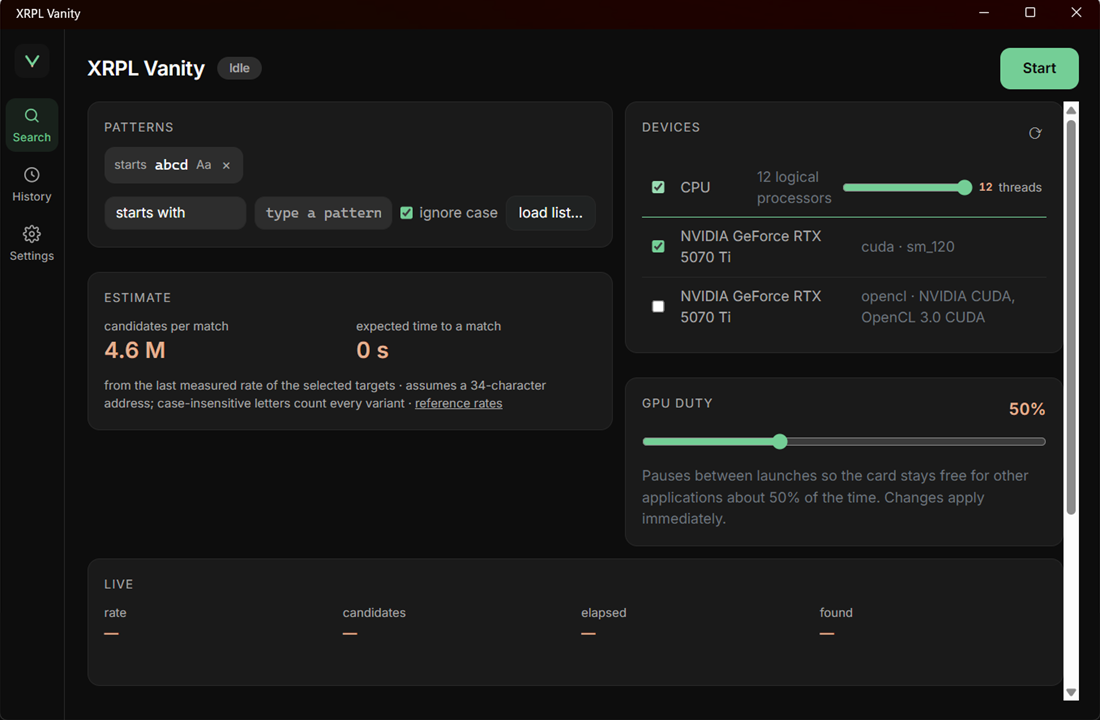
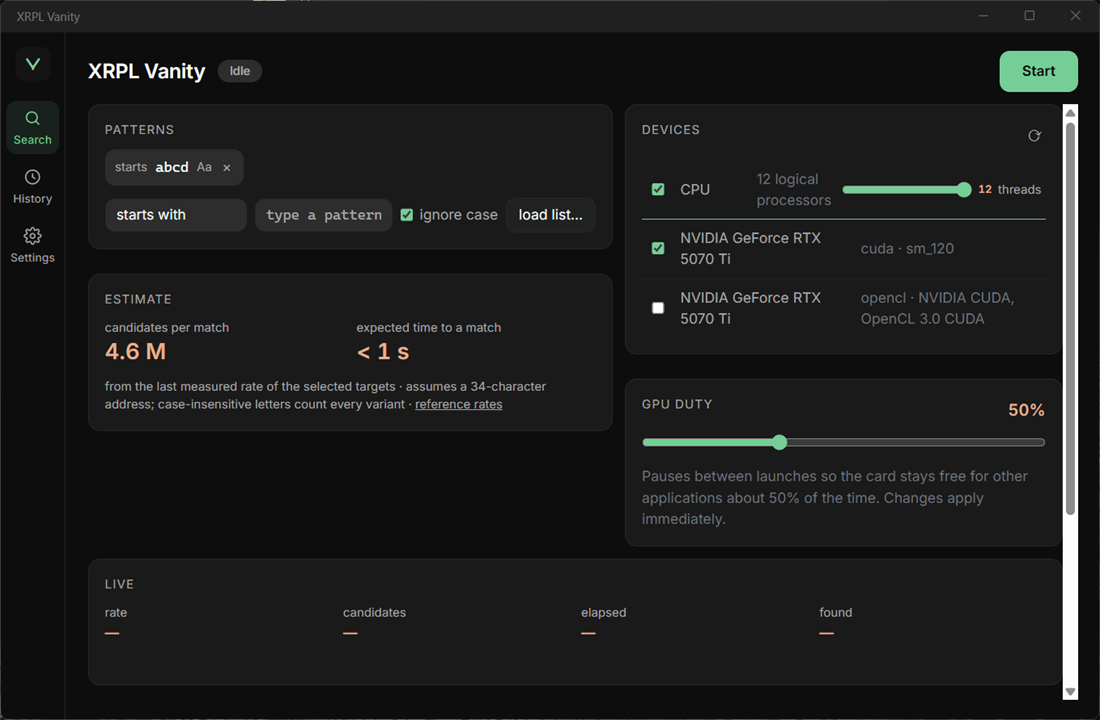
fix(app): the documented publish command matches the profile, and a sub-second estimate reads "< 1 s"
Task 8 fix round 1, addressing six review findings:

- MSIX-win-x64.pubxml no longer points PackageCertificateKeyFile at the dev .pfx
  (Windows App SDK 1.7 cannot import a password-protected key file); the profile
  now signs by thumbprint only, matching what docs/desktop-app.md already
  documented. Re-verified with a fresh publish producing a signed .msix.
- Package size in docs/desktop-app.md corrected to the measured 73.3 MB.
- Formatting.Duration returns "< 1 s" for a positive duration that rounds to
  zero seconds, keeping "0 s" only for TimeSpan.Zero; the desktop screenshot
  is retaken so the README no longer shows a nonsensical "0 s" ETA.
- WindowsTrayService's "Stop search" tray item gets a real ICommand.CanExecute
  tied to the current SearchRunning state, since H.NotifyIcon's native popup
  reflects CanExecute rather than MenuFlyoutItem.IsEnabled.
- DOTNET_ROLL_FORWARD is scoped to the Linux harness's build command instead of
  the whole container image, so a real runtime mismatch downstream still fails
  loudly.
- Desktop docs polish: settings.json's Count field is listed, and the Inter /
  Cascadia Code rows link to their exact release tags.

diff --git a/src/XrplVanity.App/Services/WindowsTrayService.cs b/src/XrplVanity.App/Services/WindowsTrayService.cs
@@ -17,6 +17,8 @@ public sealed class WindowsTrayService : ITrayService, IDisposable
     private TaskbarIcon? _icon;
     private Icon? _iconImage;
     private bool _disposed;
+    private bool _searchRunning;
+    private Command? _stopCommand;
 
     public event Action<TrayAction>? Activated;
 
@@ -80,6 +82,12 @@ public sealed class WindowsTrayService : ITrayService, IDisposable
 
     private void ApplyMenu(TrayMenu menu)
     {
+        if (_searchRunning != menu.SearchRunning)
+        {
+            _searchRunning = menu.SearchRunning;
+            _stopCommand?.ChangeCanExecute();
+        }
+
         MenuFlyout flyout = new();
 
         // Every item is wired through Command, not Clicked: H.NotifyIcon renders the flyout as a
@@ -95,8 +103,14 @@ public sealed class WindowsTrayService : ITrayService, IDisposable
 
         flyout.Add(duty);
 
-        MenuFlyoutItem stop = Item("Stop search", TrayAction.StopSearch);
-        stop.IsEnabled = menu.SearchRunning;
+        // The stop item's Command needs a real CanExecute, not just IsEnabled: H.NotifyIcon's
+        // native popup reflects the ICommand's CanExecute state, so a Command that always returns
+        // true (the Item() default) shows the item enabled even while idle, regardless of
+        // IsEnabled. _stopCommand is created once and reused so ChangeCanExecute above can
+        // notify a menu instance the popup already has open.
+        _stopCommand ??= new Command(() => Raise(TrayAction.StopSearch), () => _searchRunning);
+        MenuFlyoutItem stop = new() { Text = "Stop search", Command = _stopCommand };
+        stop.IsEnabled = _searchRunning;
         flyout.Add(stop);
 
         flyout.Add(new MenuFlyoutSeparator());

diff --git a/tests/XrplVanity.App.Tests/EstimateCardTests.cs b/tests/XrplVanity.App.Tests/EstimateCardTests.cs
@@ -64,6 +64,8 @@ public class EstimateCardTests : BunitContext
         Assert.Equal("3 h 20 min", Formatting.Duration(TimeSpan.FromMinutes(200)));
         Assert.Equal("2.5 days", Formatting.Duration(TimeSpan.FromHours(60)));
         Assert.Equal("> 1 year", Formatting.Duration(TimeSpan.FromDays(400)));
+        Assert.Equal("0 s", Formatting.Duration(TimeSpan.Zero));
+        Assert.Equal("< 1 s", Formatting.Duration(TimeSpan.FromMilliseconds(235)));
     }
 
     private static double ExpectedCandidatesFor(MatchPosition position, string pattern)

diff --git a/src/XrplVanity.App.Core/Components/Formatting.cs b/src/XrplVanity.App.Core/Components/Formatting.cs
@@ -20,6 +20,8 @@ public static class Formatting
         if (t.TotalDays >= 1) return t.TotalDays.ToString("0.#", CultureInfo.InvariantCulture) + " days";
         if (t.TotalHours >= 1) return $"{(int)t.TotalHours} h {t.Minutes} min";
         if (t.TotalMinutes >= 1) return $"{(int)Math.Round(t.TotalMinutes)} min";
-        return $"{(int)Math.Round(t.TotalSeconds)} s";
+        double seconds = Math.Round(t.TotalSeconds);
+        if (t > TimeSpan.Zero && seconds < 1) return "< 1 s";
+        return $"{(int)seconds} s";
     }
 }

diff --git a/docs/desktop-app.md b/docs/desktop-app.md
@@ -36,7 +36,7 @@ page prints the resolved path, and **Open folder** opens it):
 
 | File | Contents |
 | --- | --- |
-| `settings.json` | Pattern and target drafts, thread count, duty, window size, close behaviour, notification flag, clipboard and reveal timeouts, and the last measured rate per device. Plain JSON, no secrets. |
+| `settings.json` | Pattern and target drafts, thread count, duty, match count limit, window size, close behaviour, notification flag, clipboard and reveal timeouts, and the last measured rate per device. Plain JSON, no secrets. |
 | `results.dat` | The stored results, including seeds. Encrypted with DPAPI (`ProtectedData.Protect`, `DataProtectionScope.CurrentUser`), so only the Windows account that wrote the file can read it. |
 
 `results.dat` is the only file the application writes that contains a seed. Nothing else
@@ -111,14 +111,17 @@ dotnet publish src/XrplVanity.App/XrplVanity.App.csproj -c Release -f net10.0-wi
 ```
 
 The package lands in `src/XrplVanity.App/bin/msix/XrplVanity.App_1.0.0.0_x64_Test/` as
-`XrplVanity.App_1.0.0.0_x64.msix`, roughly 77 MB because the build is self-contained.
+`XrplVanity.App_1.0.0.0_x64.msix`, about 73.3 MB because the build is self-contained.
 
 The publish profile signs from the certificate store rather than from the `.pfx`. The
 Windows App SDK packaging targets cannot import a password-protected key file — they
 fail with `APPX0105: Cannot import the key file` and `APPX0107: The certificate specified
 is not valid for signing` even when `PackageCertificatePassword` is supplied — while the
-same certificate resolves cleanly by thumbprint. The `.pfx` is still exported so the
-certificate can be moved to another build machine.
+same certificate resolves cleanly by thumbprint. That is why
+`MSIX-win-x64.pubxml` carries an empty `PackageCertificateKeyFile`, a deliberate deviation
+from a straight `.pfx` reference: the `.pfx` still exists and is still exported by
+`make-cert.ps1`, but only so the certificate can be moved to another build machine — it is
+never read by the publish itself, which always signs by thumbprint from the local store.
 
 ### 3. Trust the certificate and install
 
@@ -163,8 +166,8 @@ registration first (`Remove-AppxPackage -Package io.staticbit.vanity_1.0.0.0_x64
 
 | Asset | Version | Licence |
 | --- | --- | --- |
-| [Inter](https://github.com/rsms/inter) (`Inter-Regular`, `Inter-Medium`, `Inter-SemiBold`) | v4.1 | SIL Open Font License 1.1 — `src/XrplVanity.App.Core/wwwroot/fonts/LICENSE-Inter.txt` |
-| [Cascadia Code](https://github.com/microsoft/cascadia-code) | v2407.24 | SIL Open Font License 1.1 — `src/XrplVanity.App.Core/wwwroot/fonts/LICENSE-CascadiaCode.txt` |
+| [Inter](https://github.com/rsms/inter/releases/tag/v4.1) (`Inter-Regular`, `Inter-Medium`, `Inter-SemiBold`) | v4.1 | SIL Open Font License 1.1 — `src/XrplVanity.App.Core/wwwroot/fonts/LICENSE-Inter.txt` |
+| [Cascadia Code](https://github.com/microsoft/cascadia-code/releases/tag/v2407.24) | v2407.24 | SIL Open Font License 1.1 — `src/XrplVanity.App.Core/wwwroot/fonts/LICENSE-CascadiaCode.txt` |
 | [Bootstrap](https://getbootstrap.com/) (`bootstrap.min.css` only) | 5.3.3 | MIT — `src/XrplVanity.App.Core/wwwroot/lib/bootstrap/LICENSE` |
 | [H.NotifyIcon.Maui](https://github.com/HavenDV/H.NotifyIcon) (tray icon and menu) | 2.4.1 | MIT |
 

diff --git a/docs/2026-09-05-xrpl-vanity-desktop-design.md b/docs/2026-09-05-xrpl-vanity-desktop-design.md
@@ -495,11 +495,17 @@ Windows 11, 120 dpi.
   seconds after start: 211 MB for the application process plus 349 MB across the six WebView2
   children it owns, ≈560 MB in total, which is what Task Manager groups under the app.
 - CPU search from the GUI, 12 threads, `--starts abc` equivalent (case-sensitive): 137,256/s in
-  LiveStats over 73.5 M candidates in 9 minutes, versus 102,249/s from the CLI's `CPU:` line
-  (`--count 60`, 4,947,712 candidates in 48.4 s) and 91,458/s over a longer CLI run
-  (`--count 250`, 16,866,054 candidates in 184.4 s). The GUI reads 34–50 % higher; the runs were
-  sequential rather than simultaneous, so the gap is unexplained rather than attributable, and it
-  is the one figure here that should be re-taken as a controlled A/B before being quoted.
+  LiveStats over 73.5 M candidates in 9 minutes, versus 102,249/s and 91,458/s from two earlier
+  CLI runs. A controlled A/B was taken to check whether that gap was a Debug-vs-Release artefact:
+  the first pair of CLI figures came from a `dotnet run` that defaults to Debug, while the GUI
+  figure is a Release build. `dotnet build XrplVanity.sln -c Release` followed by two runs of
+  `dotnet run --project src/XrplVanity.Cli -c Release --no-build -- --case-sensitive --starts abc
+  --count 60 --threads 12` (same machine, same pattern, same thread count, nothing else CPU-heavy
+  running) gave 93,189/s (3,969,995 candidates in 42.6 s) and 93,457/s (4,808,989 candidates in
+  51.5 s) — in the same range as the earlier Debug-CLI figures, not closer to the GUI's 137,256/s.
+  The gap is therefore not a Debug/Release difference; it persists between a Release CLI and the
+  Release-built GUI on the same formula, the same target-local clock and the same default thread
+  count, and stays recorded as unexplained rather than attributable.
 - GPU search from the GUI (`cuda:0`, `abcd` case-sensitive): 18.1 M/s in LiveStats over 489.7 M
   candidates in 27 s, and 17,997,356/s in the rate hint the run persisted, versus 19,400,000/s
   from the CLI — −7.2 %. The run was stopped by hand rather than by `--count 30`, since the Search
